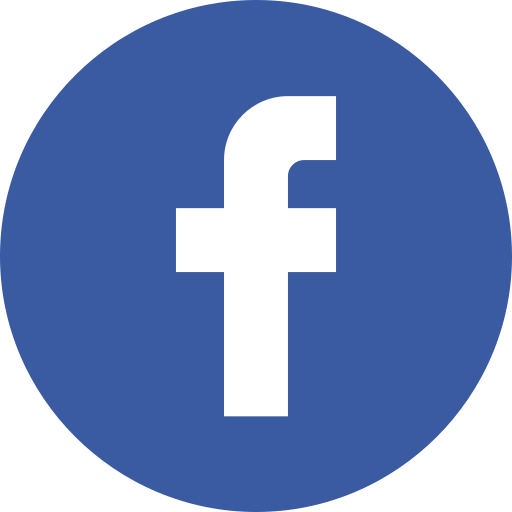
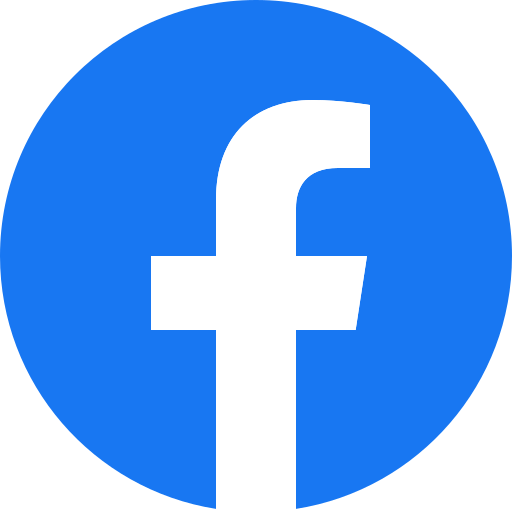
update

diff --git a/Projects/[Week 3] HTML Final Project/Projectspage.html b/Projects/[Week 3] HTML Final Project/Projectspage.html
@@ -13,7 +13,7 @@
         content="Explore my projects, including a music website, an ISP company page, and a science questions website.">
 
 
-    <link rel="icon" href="contents/favicon.ico" type="image/x-icon">
+    <link rel="icon" href="contents/favicon.png" type="image/x-icon">
 </head>
 
 <body>
@@ -23,7 +23,7 @@
         <nav>
             <ul>
                 <li><a href="Homepage.html">Home</a> <span>&#127968;</span></li>
-                <li><a href="ContactsPage.html">Contact Me!</a> <span>&#128221;</span></li>
+                <li><a href="Contactspage.html">Contact Me!</a> <span>&#128221;</span></li>
             </ul>
         </nav>
     </header>
@@ -35,9 +35,10 @@
                 <p>This project is about the famous singer Adem Ramadani, where you can watch his latest videos and
                     audios
                     in high quality.</p>
-                <img src="contents/project1.png" width="600px" alt="Project 1">
+                <img src="contents/project1.png" width="700px" alt="Project 1">
             </article>
         </section>
+        <hr>
 
         <section>
             <article>
@@ -45,15 +46,16 @@
                 <p>The second project is for ISP Telkos, where you can find some information about this company and also
                     the
                     correct location of their office.</p>
-                <img src="contents/project2.png" width="600px" alt="Project 2">
+                <img src="contents/project2.png" width="700px" alt="Project 2">
             </article>
         </section>
+        <hr>
 
         <section>
             <article>
                 <h2 id="P3">Project 3 - Q&A Page</h2>
                 <p>This third project is a web page that provides different questions for all sciences.</p>
-                <img src="contents/project3.png" width="600px" alt="Project 3">
+                <img src="contents/project3.png" width="700px" alt="Project 3">
             </article>
         </section>
     </main>

diff --git a/Projects/[Week 3] HTML Final Project/Homepage.html b/Projects/[Week 3] HTML Final Project/Homepage.html
@@ -9,7 +9,7 @@
         content="Dorand Xhelili's personal portfolio showcasing his skills, education, and projects.">
     <meta name="author" content="Dorand Xhelili">
     <meta name="keywords" content="Dorand Xhelili, Portfolio, Skills, Education, Projects, Contact">
-    <link rel="icon" href="contents/favicon.ico" type="image/x-icon">
+    <link rel="icon" href="contents/favicon.png" type="image/x-icon">
 </head>
 
 <body>
@@ -19,7 +19,7 @@
         <nav>
             <ul>
                 <li><a href="Projectspage.html">My Projects</a> <span>&#128170;</span></li>
-                <li><a href="ContactsPage.html">Contact Me!</a> <span>&#128221;</span></li>
+                <li><a href="Contactspage.html">Contact Me!</a> <span>&#128221;</span></li>
             </ul>
         </nav>
     </header>

diff --git a/Projects/[Week 3] HTML Final Project/ContactsPage.html b/Projects/[Week 3] HTML Final Project/ContactsPage.html
@@ -5,7 +5,7 @@
     <meta charset="UTF-8">
     <meta name="viewport" content="width=device-width, initial-scale=1.0">
     <title>Contact Page</title>
-    <link rel="icon" href="contents/favicon.ico" type="image/x-icon">
+    <link rel="icon" href="contents/favicon.png" type="image/x-icon">
 </head>
 
 <body>
